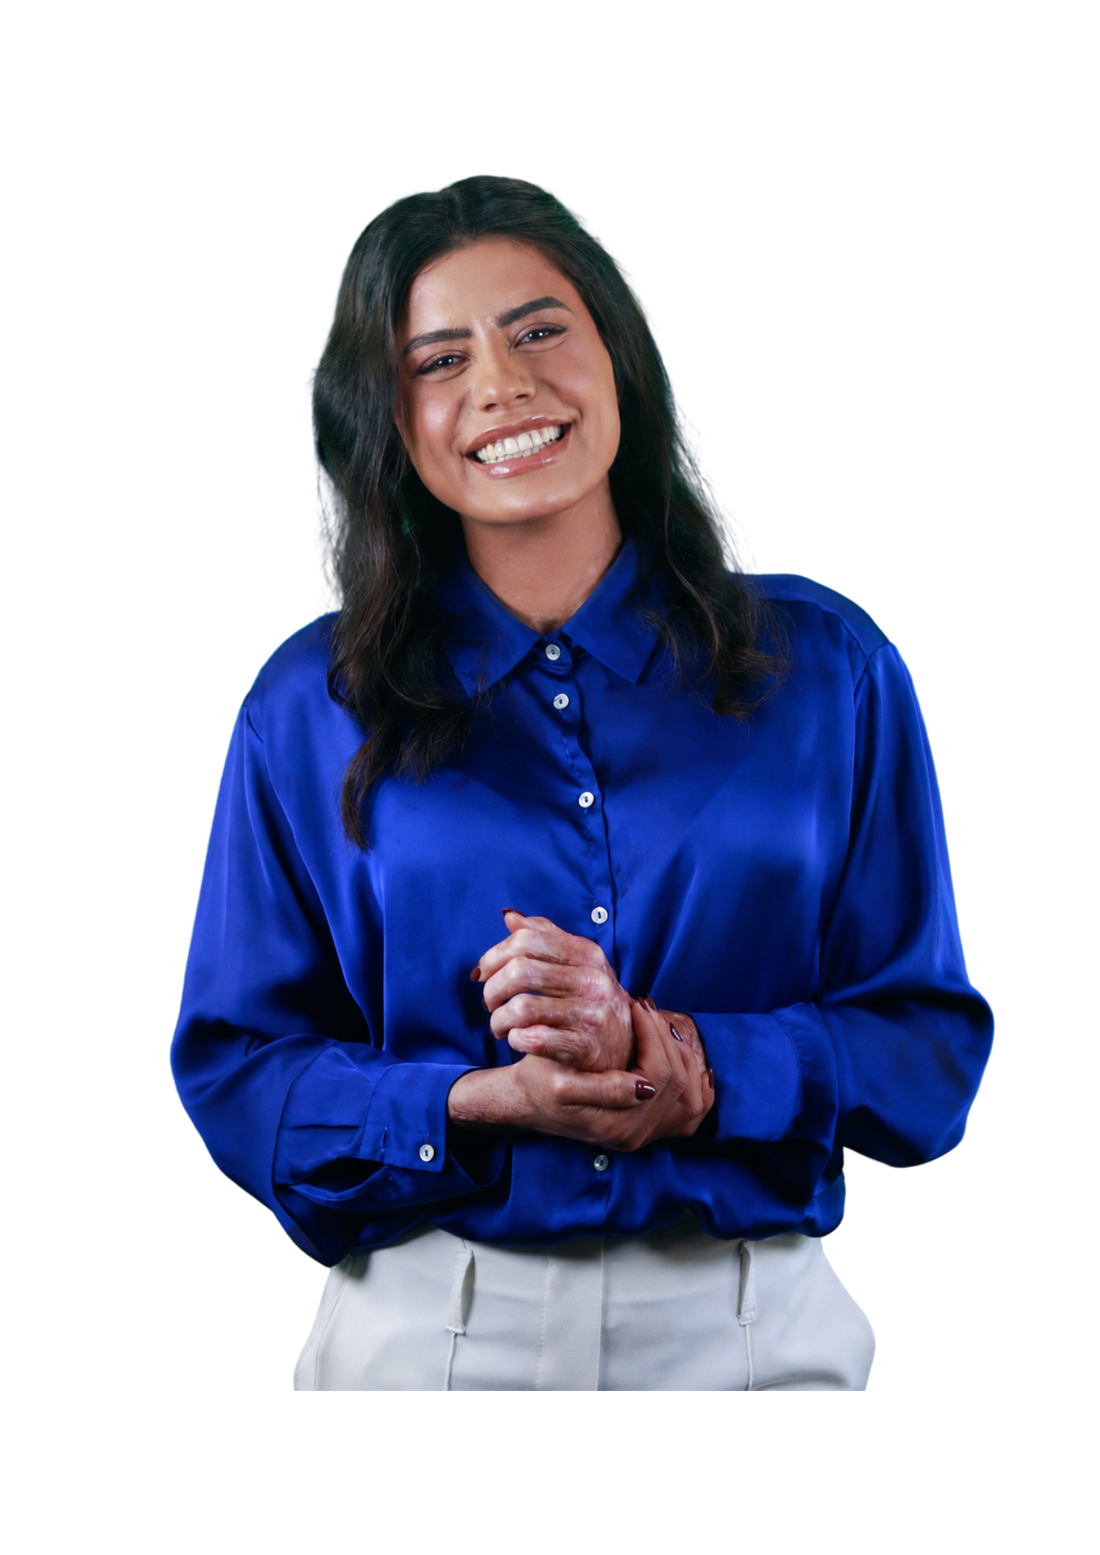
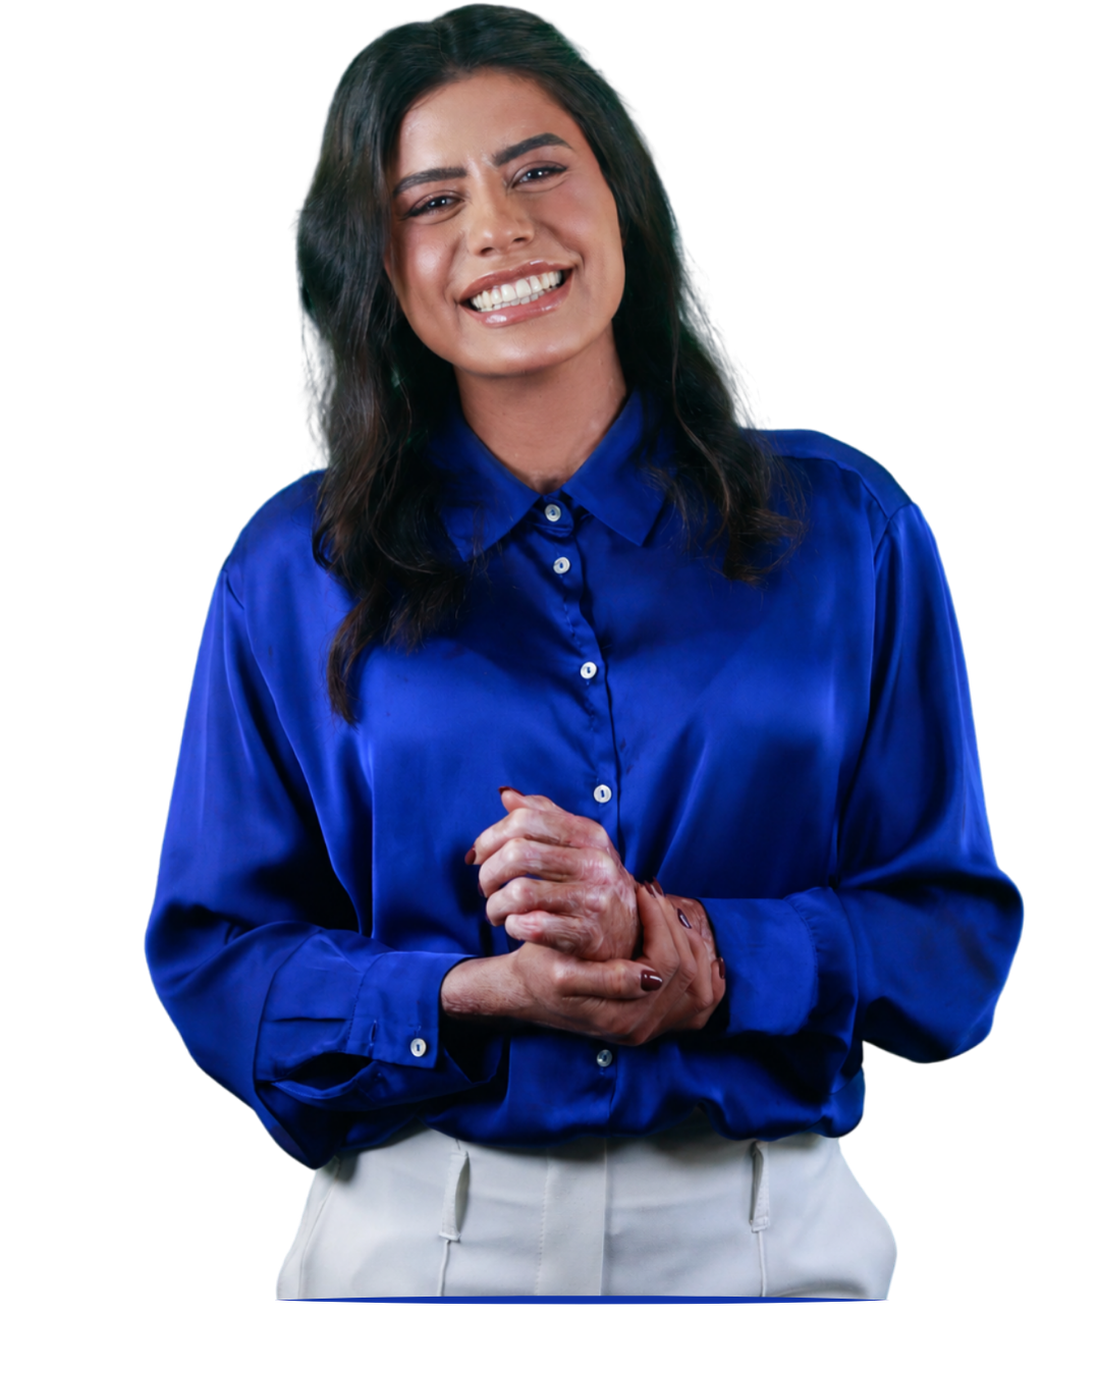
Atualiza foto oficial da candidata e remove a forma rosa do hero
A nova foto enviada já vem com uma linha de acabamento na base do
recorte, então a forma ondulada em SVG criada anteriormente foi
removida para não duplicar o efeito. Recalcula a correção de
centralização (--subject-shift) e as dimensões da imagem para o novo
arquivo.

Claude-Session: https://claude.ai/code/session_01ATGQgf8zyVySea34Cf3RvK

diff --git a/src/styles/Hero.css b/src/styles/Hero.css
@@ -203,10 +203,11 @@
   position: relative;
   width: min(100%, 420px);
   /* A pessoa não está perfeitamente centralizada no PNG (sobra mais
-     espaço transparente à esquerda do que à direita): ~2.9% do
+     espaço transparente à esquerda do que à direita): ~3.1% do
      recorte real. Corrige o centro de referência dos elementos
-     decorativos para acompanhar o corpo dela, não a tela do arquivo. */
-  --subject-shift: 2.9%;
+     decorativos (disco/anel) para acompanhar o corpo dela, não a
+     tela do arquivo. */
+  --subject-shift: 3.1%;
 }
 
 .hero__photo-stage {
@@ -265,27 +266,6 @@
   to { transform: rotate(360deg); }
 }
 
-.hero__photo-wave {
-  position: absolute;
-  z-index: 2;
-  bottom: -1%;
-  left: calc(50% + var(--subject-shift));
-  transform: translateX(-50%);
-  width: min(74%, 320px);
-  height: auto;
-  aspect-ratio: 192 / 47;
-  filter: drop-shadow(0 10px 18px rgba(184, 18, 96, 0.35));
-  animation: wave-breathe 5s ease-in-out infinite;
-}
-
-.hero__photo-wave path {
-  fill: var(--pink);
-}
-
-@keyframes wave-breathe {
-  0%, 100% { transform: translateX(-50%) scaleY(1); }
-  50% { transform: translateX(-50%) scaleY(1.08); }
-}
 
 .hero__photo-img {
   position: relative;

diff --git a/src/components/Hero.tsx b/src/components/Hero.tsx
@@ -64,13 +64,10 @@ export function Hero() {
                 alt="Juliane Vieira, candidata a Deputada Estadual, sorrindo"
                 className="hero__photo-img"
                 width={1100}
-                height={1555}
+                height={1375}
                 fetchPriority="high"
               />
             </picture>
-            <svg className="hero__photo-wave" viewBox="0 0 192 47" aria-hidden="true">
-              <path d="M0,15 A16,16 0 0 0 32,15 A16,16 0 0 0 64,15 A16,16 0 0 0 96,15 A16,16 0 0 0 128,15 A16,16 0 0 0 160,15 A16,16 0 0 0 192,15 L192,0 L0,0 Z" />
-            </svg>
           </div>
         </div>
       </div>
